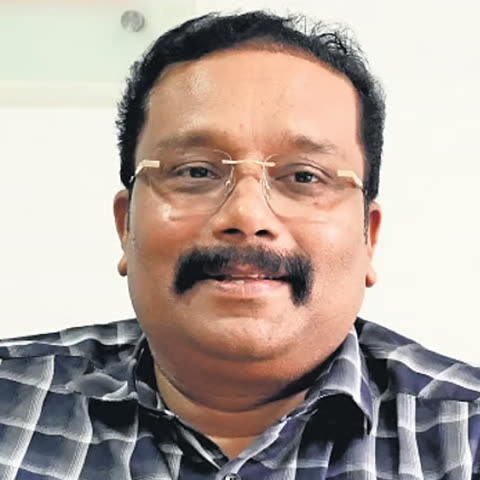
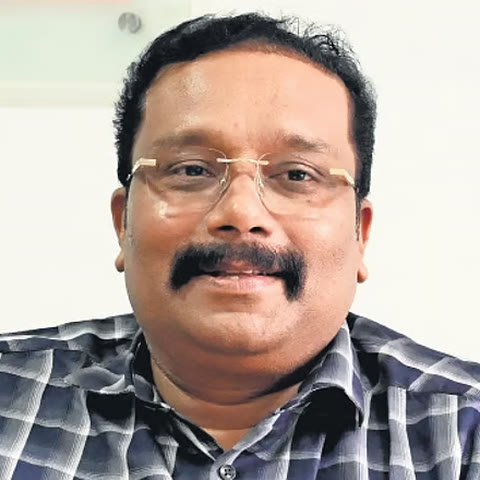
Site: Dr Ashok's and Dr Vasuki's photos re-cropped to match the other guests

diff --git a/docs/index.html b/docs/index.html
@@ -126,7 +126,7 @@
       <h2 class="reveal">In the distinguished presence&nbsp;of</h2>
       <ul class="guests__list">
         <li class="guest reveal">
-          <img src="img/guests/ashok.jpg" alt="Dr B Ashok IAS" width="480" height="480" loading="lazy">
+          <img src="img/guests/ashok.jpg?v=2" alt="Dr B Ashok IAS" width="480" height="480" loading="lazy">
           <div><p class="guest__role">Chief Guest</p><h3>Dr B Ashok IAS</h3>
           <p>Principal Secretary, Higher Education, Government of Keralam</p>
           <p class="guest__more">First Vice-Chancellor, Kerala Veterinary and Animal Sciences University</p></div>
@@ -138,7 +138,7 @@
           <p class="guest__more">Actor; co-founder, Blue Cross of Hyderabad</p></div>
         </li>
         <li class="guest reveal">
-          <img src="img/guests/vasuki.jpg" alt="Dr K Vasuki IAS" width="480" height="480" loading="lazy">
+          <img src="img/guests/vasuki.jpg?v=2" alt="Dr K Vasuki IAS" width="480" height="480" loading="lazy">
           <div><p class="guest__role">Guest of Honour</p><h3>Dr K Vasuki IAS</h3>
           <p>Secretary to the Governor, Lok Bhavan, Keralam</p>
           <p class="guest__more">Former Secretary, General Education; doctor, administrator and author of <i>The School of Life</i></p></div>

diff --git a/docs/v1/index.html b/docs/v1/index.html
@@ -126,7 +126,7 @@
       <h2 class="reveal">In the distinguished presence&nbsp;of</h2>
       <ul class="guests__list">
         <li class="guest reveal">
-          <img src="img/guests/ashok.jpg" alt="Dr B Ashok IAS" width="480" height="480" loading="lazy">
+          <img src="img/guests/ashok.jpg?v=2" alt="Dr B Ashok IAS" width="480" height="480" loading="lazy">
           <div><p class="guest__role">Chief Guest</p><h3>Dr B Ashok IAS</h3>
           <p>Principal Secretary, Higher Education, Government of Keralam</p>
           <p class="guest__more">First Vice-Chancellor, Kerala Veterinary and Animal Sciences University</p></div>
@@ -138,7 +138,7 @@
           <p class="guest__more">Actor; co-founder, Blue Cross of Hyderabad</p></div>
         </li>
         <li class="guest reveal">
-          <img src="img/guests/vasuki.jpg" alt="Dr K Vasuki IAS" width="480" height="480" loading="lazy">
+          <img src="img/guests/vasuki.jpg?v=2" alt="Dr K Vasuki IAS" width="480" height="480" loading="lazy">
           <div><p class="guest__role">Guest of Honour</p><h3>Dr K Vasuki IAS</h3>
           <p>Secretary to the Governor, Lok Bhavan, Keralam</p>
           <p class="guest__more">Former Secretary, General Education; doctor, administrator and author of <i>The School of Life</i></p></div>
